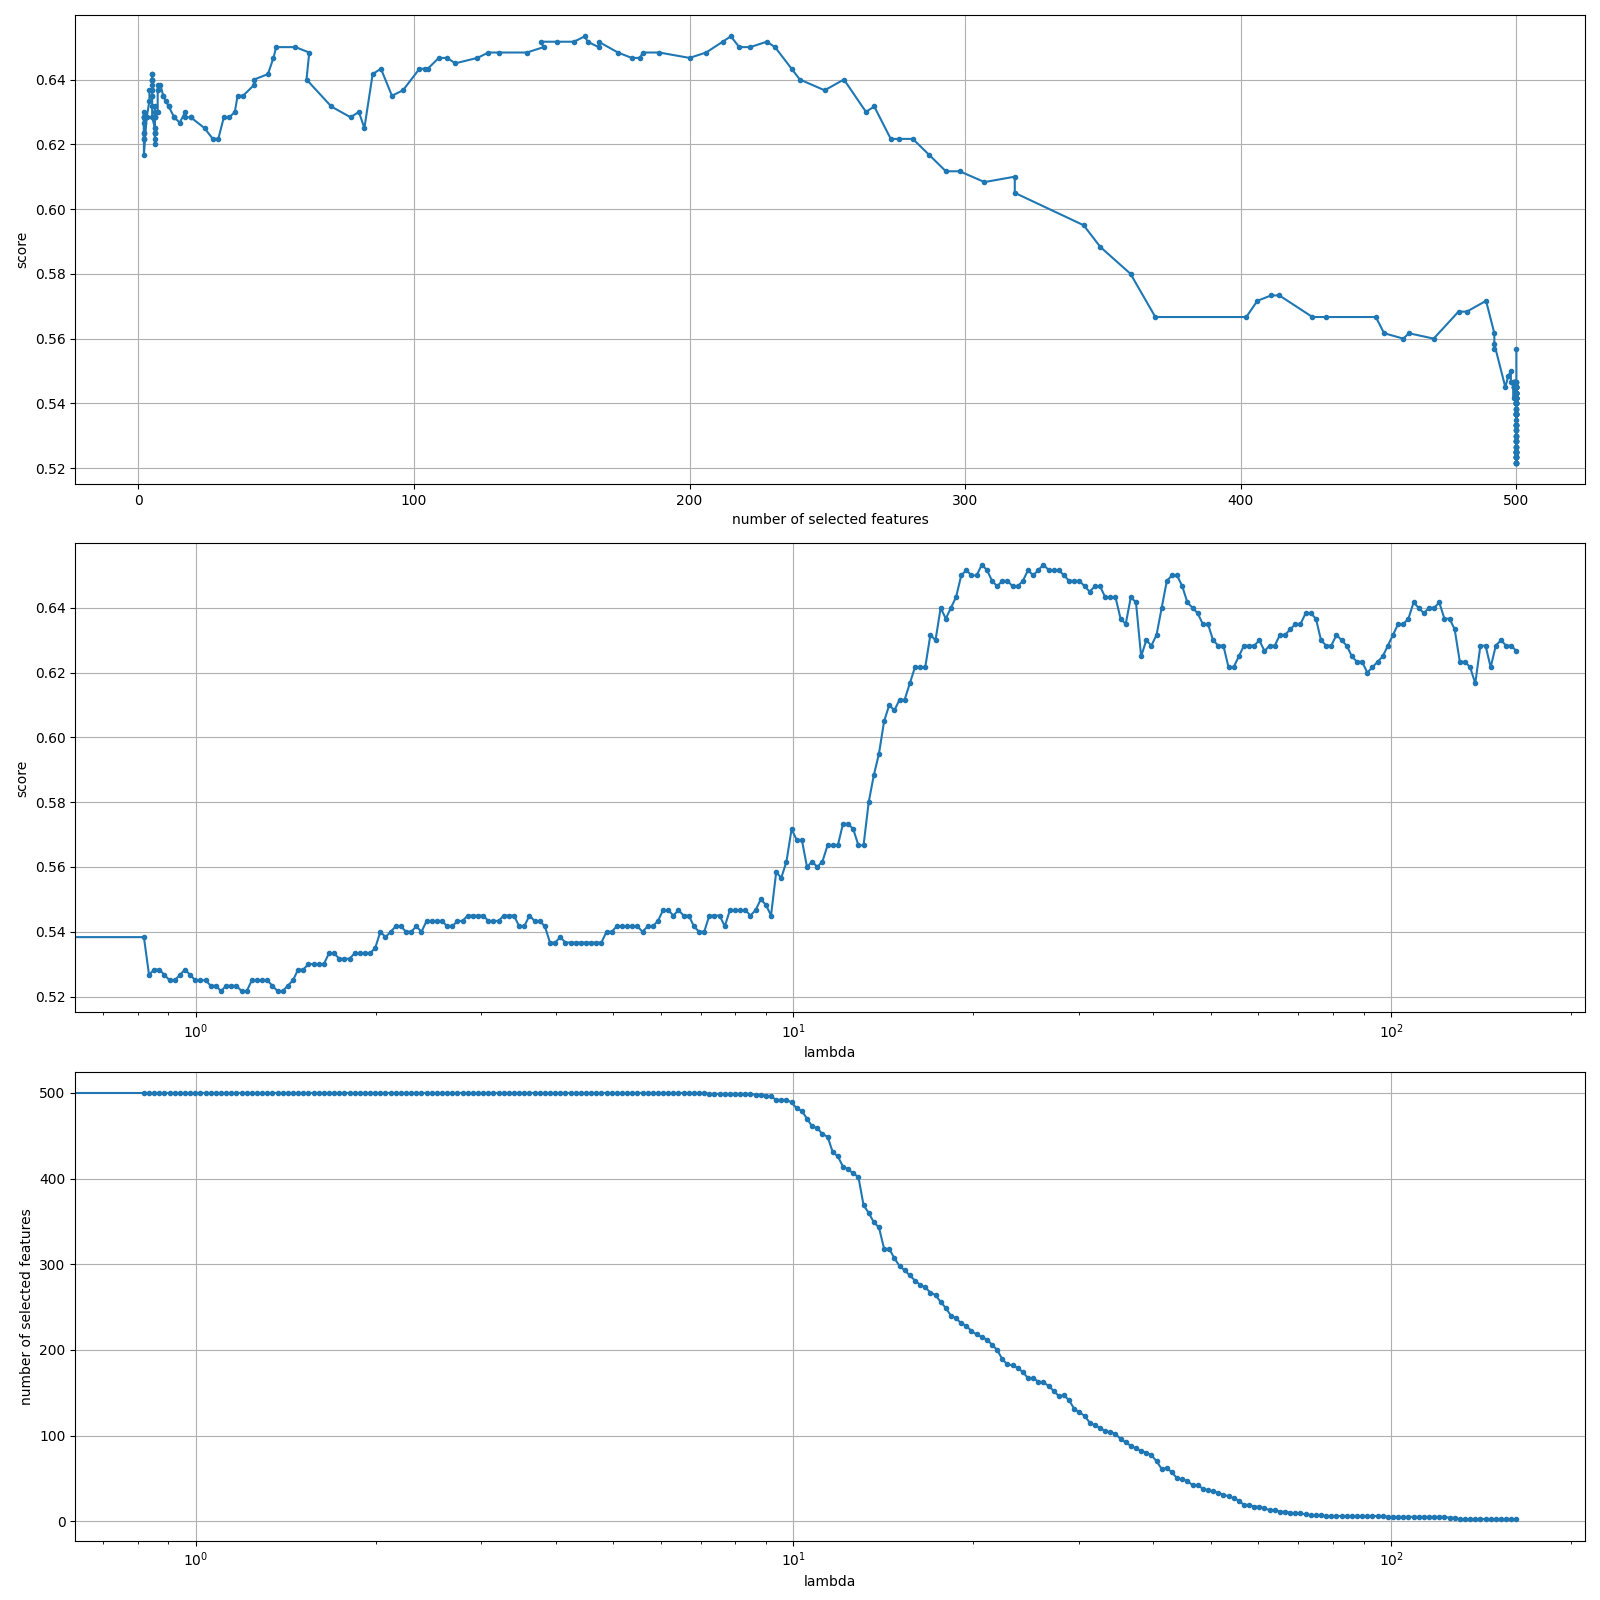
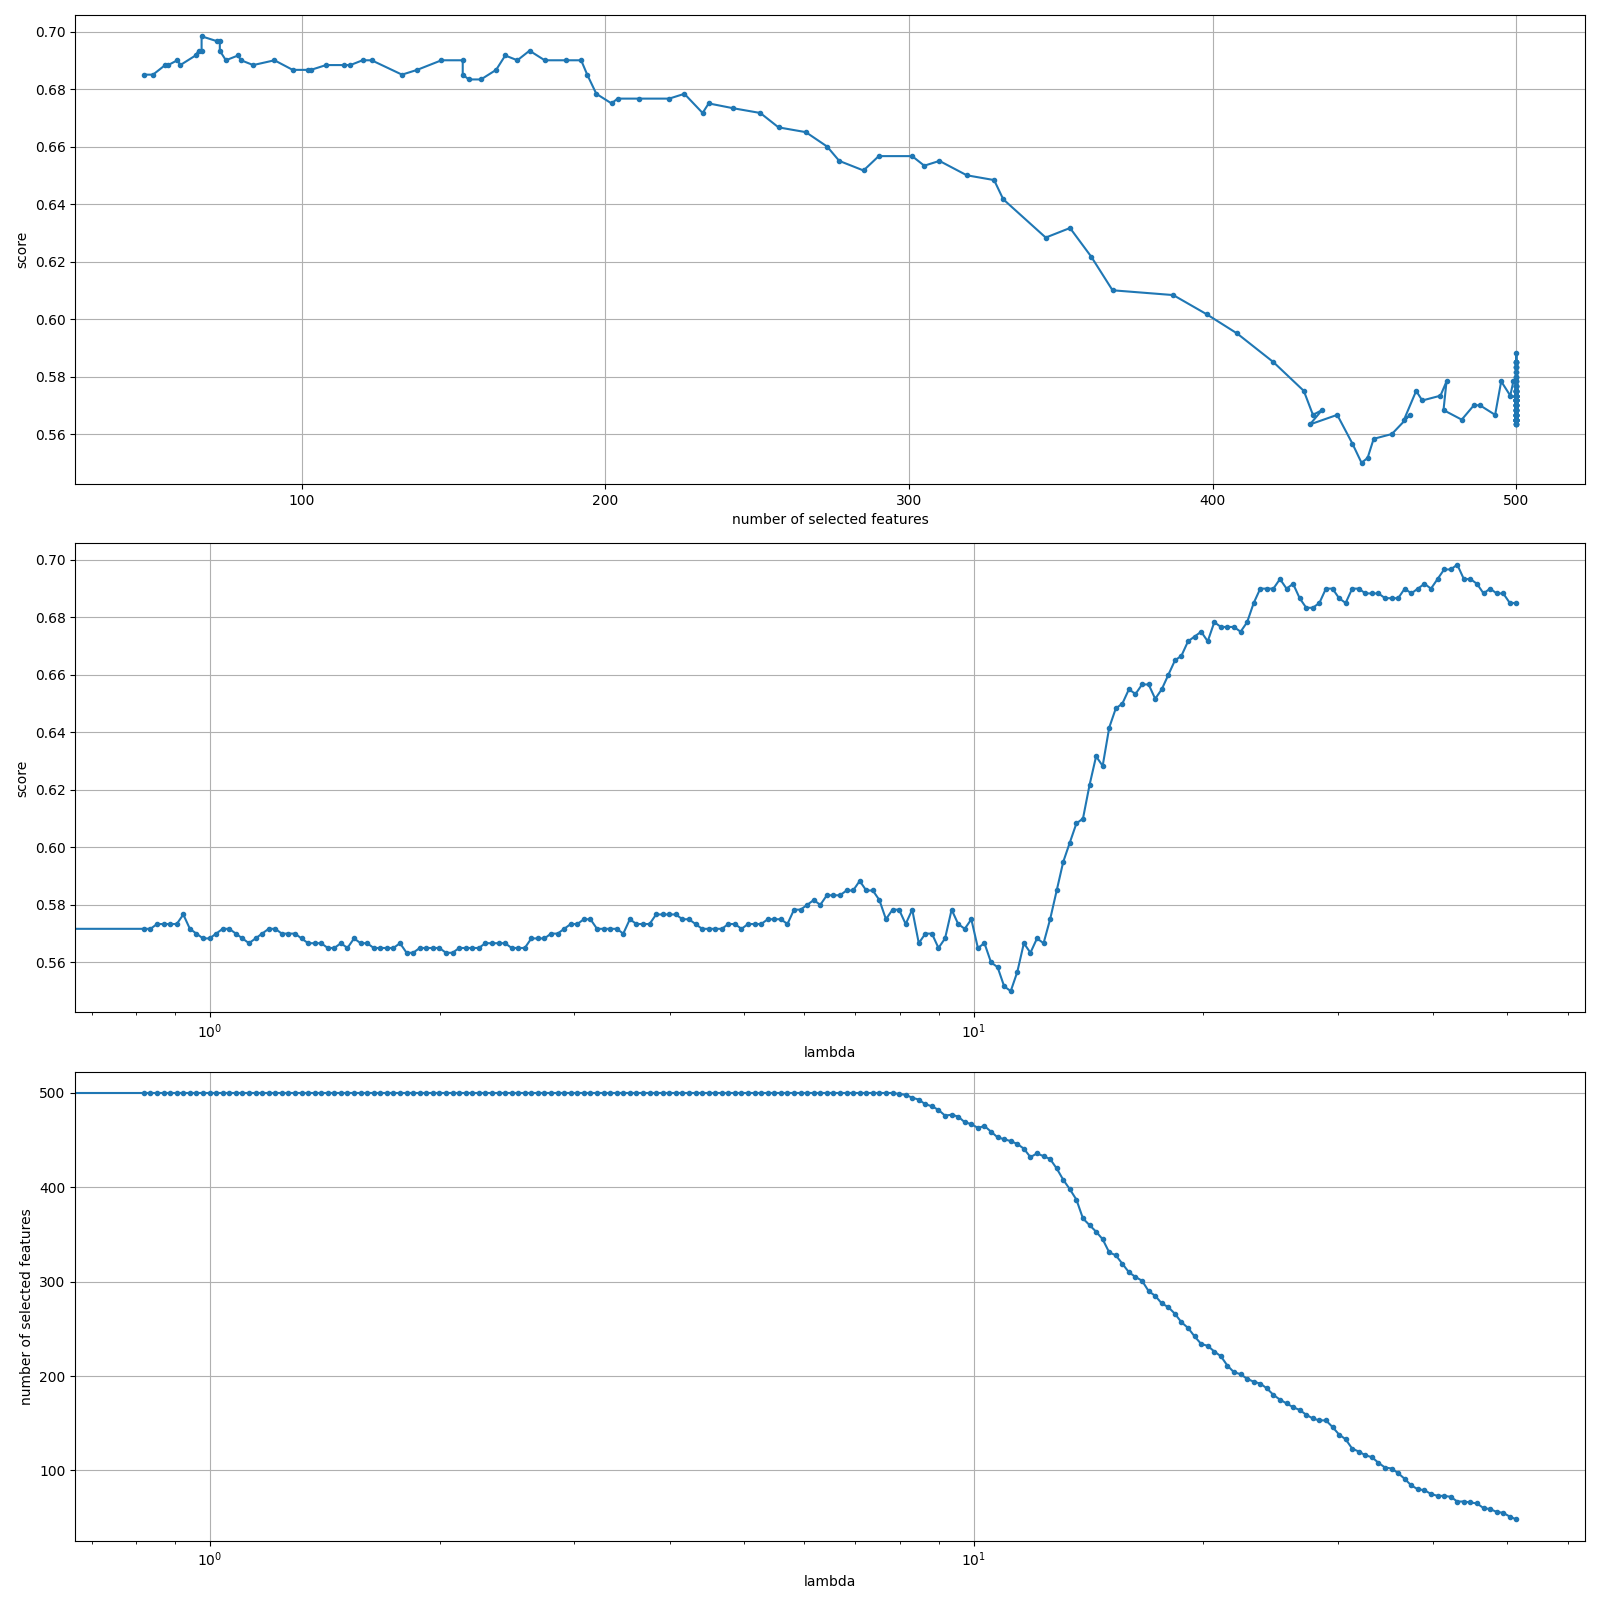
sm

diff --git a/test.py b/test.py
@@ -111,8 +111,7 @@ def run_feature_selection_baselines(data='madelon', models=None):
 
             model = LassoNetClassifierCV(M=K,
             hidden_dims=(10,),
-            verbose=True,
-            dropout=0.2,
+            verbose=False,
             )
             path = model.path(train_X, train_y)
 
